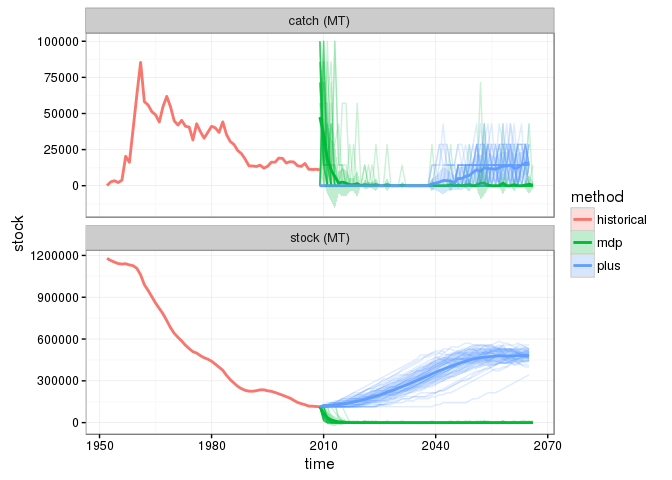
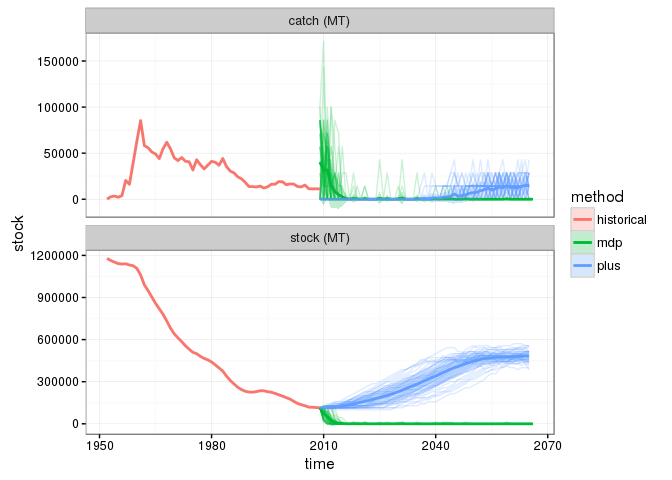
fix bug in learning algorithm?

diff --git a/inst/notebook/tuna-pomdp-results.md b/inst/notebook/tuna-pomdp-results.md
@@ -347,11 +347,14 @@ Note also that forecasts start with the prior belief over states and prior belie
 
 
 ```r
+## Need to average over model
+state_prior = rowSums(plus_hindcast$state_posterior[length(y),, ])
+
 plus_forecast <- 
 parallel::mclapply(1:reps, function(i) 
                sim_plus(models = models, discount = discount,
                         model_prior = as.numeric(plus_hindcast$model_posterior[length(y), ]),
-                        state_prior = as.numeric(plus_hindcast$state_posterior[length(y), ]),
+                        #state_prior = as.numeric(),
                         x0 = x0, Tmax = Tmax, true_model = models[[true_i]], alphas = alphas), 
                mc.cores = mc.cores)
 ```
